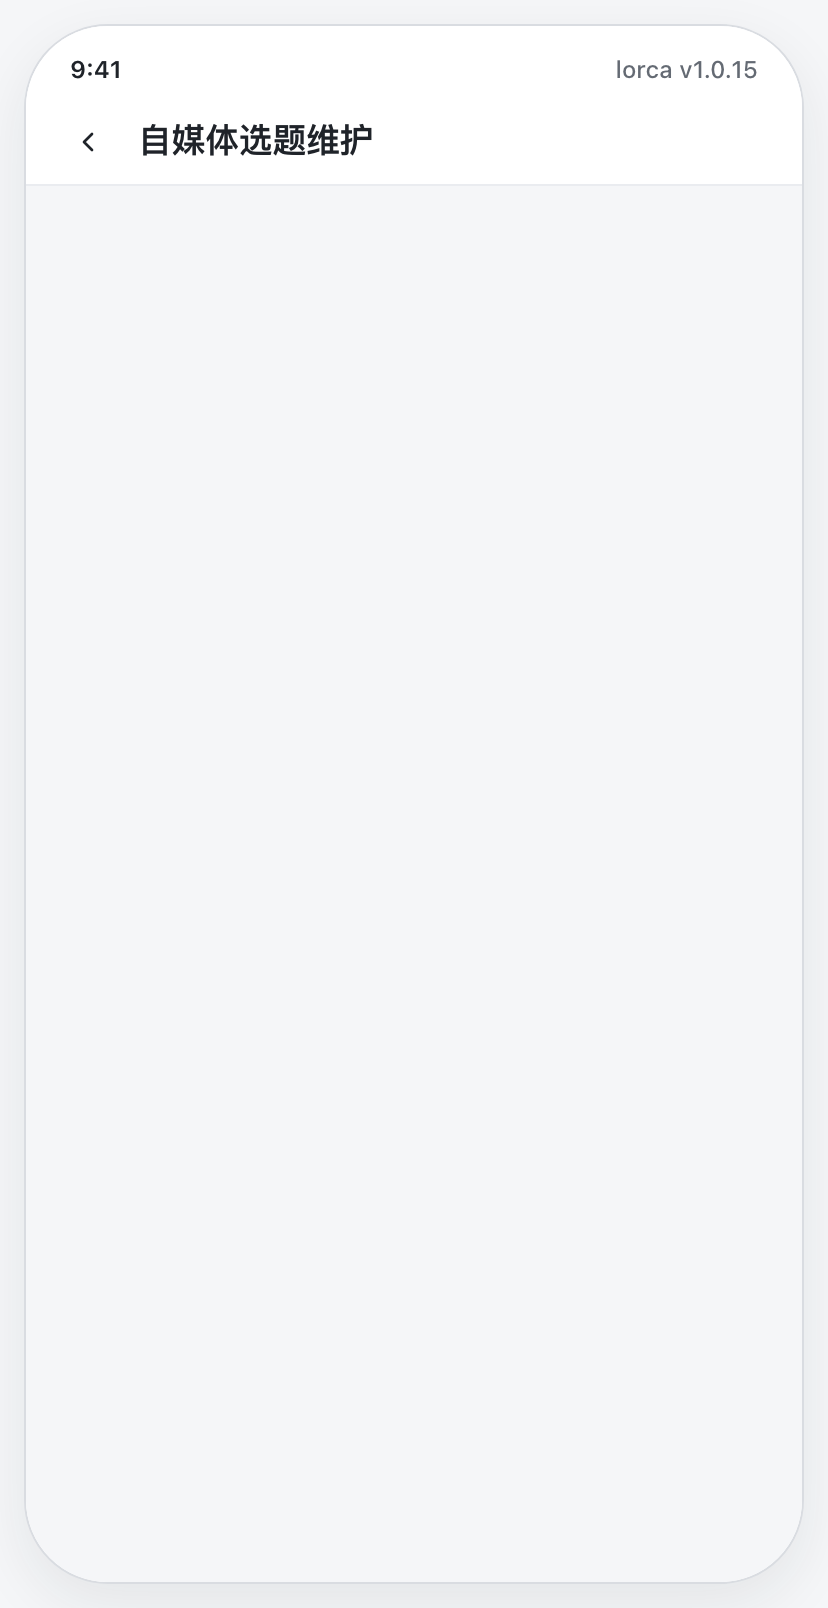
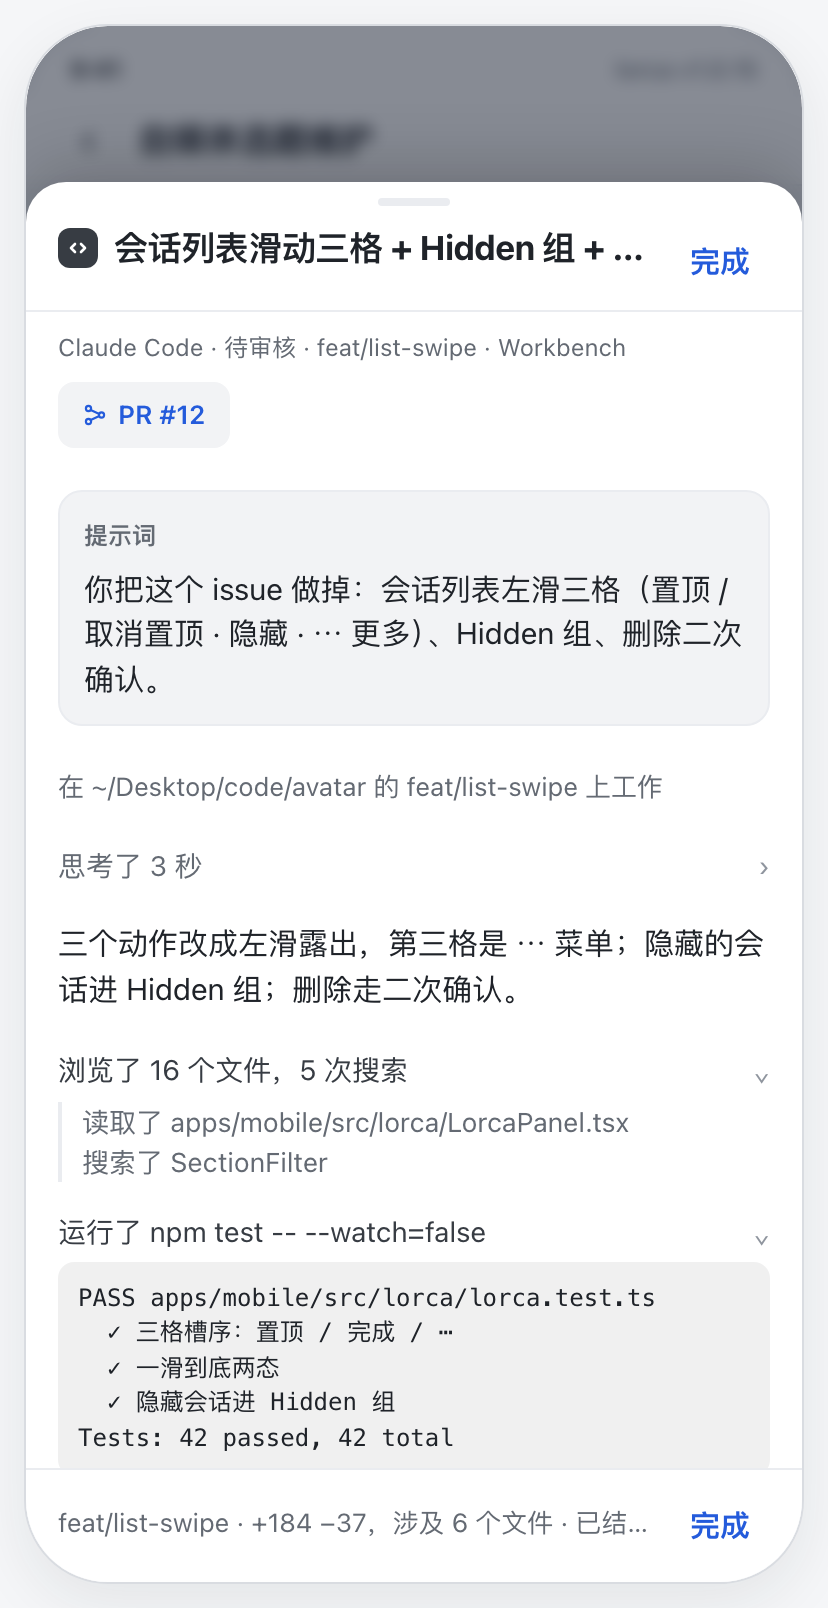
lorca-agent-rows: v3 —— 补失败态（⑦ 启动失败屏 + 失败原因行 + never started 翻 404 口径），探针 58/58

diff --git a/lorca-agent-rows/index.html b/lorca-agent-rows/index.html
@@ -275,6 +275,16 @@
     font-size: 12px; color: var(--muted);
   }
   .sheet-actions { flex: 0 0 auto; display: flex; gap: 8px; padding: 8px 16px 10px; }
+  /* 失败原因：与状态行分开一行。理由见结论区「失败态」一节 —— 原因可能是上游的长英文句子，
+     塞进状态行会被 360px 截断，而且会把六档状态词挤掉。 */
+  .sheet-reason {
+    flex: 0 0 auto;
+    padding: 6px 16px 0;
+    color: var(--danger); font-size: 12px; line-height: 1.45;
+    overflow-wrap: anywhere;
+  }
+  .sheet-reason .lead { font-weight: 600; }
+  .sheet-nothing { padding: 4px 0; font-size: 13px; color: var(--muted); }
   .sheet-action {
     display: inline-flex; align-items: center; gap: 5px;
     padding: 6px 12px; border: 0; border-radius: 8px;
@@ -388,7 +398,8 @@
     <button type="button" role="tab" data-screen="working" aria-selected="false">③ 详情 · 工作中</button>
     <button type="button" role="tab" data-screen="done" aria-selected="false">④ 详情 · 已结束</button>
     <button type="button" role="tab" data-screen="failed" aria-selected="false">⑤ 详情 · 失败</button>
-    <button type="button" role="tab" data-screen="narrow" aria-selected="false">⑥ 窄屏 360</button>
+    <button type="button" role="tab" data-screen="failed-start" aria-selected="false">⑥ 详情 · 启动失败（没跑起来）</button>
+    <button type="button" role="tab" data-screen="narrow" aria-selected="false">⑦ 窄屏 360</button>
   </div>
 
   <div class="stage">
@@ -773,6 +784,7 @@ Tests: 42 passed, 42 total</div>
                   <button class="sheet-close" type="button">关闭</button>
                 </div>
                 <div class="sheet-where" style="color:var(--danger)" data-probe="where">Claude Code · 运行失败 · main · Workbench</div>
+                <div class="sheet-reason" data-probe="reason"><span class="lead">失败原因：</span>Claude Code exited with code 1</div>
                 <div class="sheet-actions" style="display:none"></div>
                 <div class="sheet-body" data-probe="sheet-body">
                   <div class="step">
@@ -804,10 +816,51 @@ npm ERR!   npm run</div>
           </div>
         </section>
 
-        <!-- ══ ⑥ 窄屏 360 ══════════════════════════════════════════ -->
-        <section class="screen" data-screen="narrow">
-          <div class="statusbar"><span>9:41</span><span>360pt</span></div>
+        <!-- ══ ⑥ 详情 · 启动失败（agent 从没跑起来）═════════════════
+             这一屏是补的那条：启动失败时 agent 从没进 by_row，所以没有任何步骤，
+             主体是空的 —— 唯一的线索就是卡上的 outcome。没有这一行，用户看到的就是一片空白。 -->
+        <section class="screen" data-screen="failed-start">
+          <div class="statusbar"><span>9:41</span><span>lorca v1.0.15</span></div>
           <div class="hdr">
+            <button class="icon-btn is-plain" type="button" aria-label="返回">
+              <svg width="16" height="16" viewBox="0 0 24 24" fill="none" stroke="currentColor" stroke-width="2" stroke-linecap="round" stroke-linejoin="round"><path d="M15 18l-6-6 6-6"/></svg>
+            </button>
+            <span class="hdr-title">自媒体选题维护</span>
+            <span class="hdr-spacer"></span>
+          </div>
+          <div class="thread" style="padding:0">
+            <div class="backdrop">
+              <div class="sheet" data-probe="sheet" data-state="failed-start">
+                <div class="sheet-handle"></div>
+                <div class="sheet-head">
+                  <div class="sheet-head-text">
+                    <div class="sheet-title">
+                      <span class="mark" aria-hidden="true">
+                        <svg width="12" height="12" viewBox="0 0 24 24" fill="none" stroke="currentColor" stroke-width="2.6" stroke-linecap="round" stroke-linejoin="round"><path d="M9 8l-4 4 4 4"/><path d="M15 8l4 4-4 4"/></svg>
+                      </span>
+                      <span class="t">会话列表滑动三格 + Hidden 组 + 删除（issue #1 P1）</span>
+                    </div>
+                  </div>
+                  <button class="sheet-close" type="button">关闭</button>
+                </div>
+                <div class="sheet-where" style="color:var(--danger)" data-probe="where">Claude Code · 运行失败</div>
+                <div class="sheet-reason" data-probe="reason"><span class="lead">失败原因：</span>Claude Code is not installed on this Runner. Leave agent out to use one that is, or ask the user to install it.</div>
+                <div class="sheet-actions" style="display:none"></div>
+                <div class="sheet-body" data-probe="sheet-body">
+                  <div class="step"><p class="sheet-nothing" data-probe="nothing">这次运行没有留下步骤。</p></div>
+                </div>
+                <div class="sheet-foot">
+                  <span class="grow" data-probe="foot">已结束，不再刷新</span>
+                  <button class="sheet-close" type="button">关闭</button>
+                </div>
+              </div>
+            </div>
+          </div>
+        </section>
+
+        <!-- ══ ⑦ 窄屏 360 ══════════════════════════════════════════ -->
+        <section class="screen" data-screen="narrow">
+          <div class="statusbar"><span>9:41</span><span>360pt</span></div>          <div class="hdr">
             <button class="icon-btn is-plain" type="button" aria-label="返回">
               <svg width="16" height="16" viewBox="0 0 24 24" fill="none" stroke="currentColor" stroke-width="2" stroke-linecap="round" stroke-linejoin="round"><path d="M15 18l-6-6 6-6"/></svg>
             </button>
@@ -915,6 +968,7 @@ Tests: 42 passed, 42 total</div>
       <tr><th>位置</th><th>内容</th></tr>
       <tr><td>把手 + 标题栏</td><td>智能体标记 + 标题（最多 3 行）+ 关闭（iOS「完成」/ Android「关闭」）</td></tr>
       <tr><td>状态行</td><td>{智能体名} · {状态词} · {分支} · {设备}（缺的项不占位，失败时整行走失败色）</td></tr>
+      <tr><td>失败原因行</td><td>仅 <code>state === "failed"</code> 且 <code>outcome</code> 非空时出现：<b>失败原因：{outcome}</b>，走失败色、可换行；其余情况不占位</td></tr>
       <tr><td>动作行</td><td>运行中一个「停止」；有 PR 时一个 PR 入口（<code>#12</code>）；都没有时整行不占位</td></tr>
       <tr><td>主体（可滚）</td><td>按时间顺序列步骤：提示词卡（超 6 行折叠，「显示更多」）/ 状态行 / 思考了 N 秒（可展开正文）/ 它说的话 / 工具步骤（读与搜索折成「浏览了 N 个文件 M 次搜索」，命令可展开输出，编辑带 +N −N）/ 计划清单 / 错误行</td></tr>
       <tr><td>底部</td><td>分支 + 改动统计（<code>+184 −37，涉及 6 个文件</code>）+ 关闭</td></tr>
@@ -963,14 +1017,28 @@ Tests: 42 passed, 42 total</div>
     <p><b>我的取舍是保留状态词</b>，理由：标题只用于「认得出是哪个任务」（前几个字通常够），而「干到哪了」是这一行唯一的可扫视信号，也是点开浮层的动机。完整标题在浮层标题栏里完整可读（最多 3 行）。</p>
     <p>如果你更在意标题完整度，备选是把状态词移到预览行右端（标题能多 4 个字）—— 但状态会离标题变远，扫视时容易读成预览的一部分。你定。</p>
 
-    <h3>7. 与 issue #4 验收标准的对应（逐条可核）</h3>
+    <h3>7. 失败态（本次补充，2026-10-18）</h3>
+    <p>复核时发现的缺口：<b>启动失败</b>的智能体从没进上游的 agent 表（<code>by_row</code> 查不到），所以点开浮层拉 <code>coding.transcript</code> 只会失败 —— 主体一片空白 + 一句英文报错。而上游给的真原因就在卡上的 <code>outcome</code>（桥接层已经收进协议了，界面一处没画）。</p>
+    <table>
+      <tr><th>位置</th><th>口径</th></tr>
+      <tr><td>桥接层</td><td>上游的 <code>That coding agent never started</code> 要翻成 <b>404</b>（不是 502），且说清是「这个智能体没有跑起来」，不能说成「这一行不是启动行」——两种 404 是不同的错</td></tr>
+      <tr><td>浮层主体</td><td>拉不到运行记录时**不弹错误框**，走已有空态「这次运行没有留下步骤。」（原因由下面那行给）</td></tr>
+      <tr><td>失败原因行</td><td>状态行下方一行「<b>失败原因：</b>{outcome}」，<b>仅 <code>state === "failed"</code> 且 <code>outcome</code> 非空</b>；数据取会话流那一行的卡（<code>fallback</code>），不等 transcript</td></tr>
+    </table>
+    <p><b>两处与上游不同，都是有意：</b></p>
+    <ul>
+      <li><b>不替换状态行</b>（上游 macOS <code>AgentCellView.swift:36</code> 是整条替成「失败：{outcome}」）。理由：360pt 上 outcome 可能是一整句英文，替掉状态行就把「哪个智能体、哪个分支」挤掉了；上游那样写是因为它的 detail 只有一行位置，浮层里有两行。</li>
+      <li><b><code>stopped</code> 的 outcome 本期不画</b>（上游也只画 <code>failed</code> 那档）。stopped 的 outcome 常常就是「Stopped」这类词，摆在「失败原因：」后面是假话。状态词「已停止」已经说清了。要画得另起一档标签，P2 再说。</li>
+    </ul>
+
+    <h3>8. 与 issue #4 验收标准的对应（逐条可核）</h3>
     <table>
       <tr><th>AC</th><th>本稿里对应哪一块</th></tr>
       <tr><td>1 <code>agent_message</code> 不降级</td><td>不在 UI 稿范围（桥接层），但 ② 屏「来自 …」行就是它的渲染结果</td></tr>
       <tr><td>2 工具行带 <code>agent</code> / <code>target_agent_id</code></td><td>不在 UI 稿范围；② 屏同时演示了两种（启动行 / 发消息行）</td></tr>
       <tr><td>3 居中标记行、不出现英文原名</td><td>② 屏五条标记行；① 屏是对照基线；探针核「② 屏文本无 <code>coding_agent</code>、① 屏有」</td></tr>
-      <tr><td>4 点开详情、顶部有标题 / 状态行 / 停止 / 底部关闭</td><td>③ 屏（有停止无 PR）；④ 屏（有 PR 无停止）</td></tr>
-      <tr><td>5 七种步骤 + 工具可展开</td><td>③④⑤ 屏：提示词 / 状态行 / 思考 / 它说的话 / 工具步骤 / 计划 / 错误行；④ 屏演示了展开的命令输出</td></tr>
+      <tr><td>4 点开详情、顶部有标题 / 状态行 / 停止 / 底部关闭</td><td>③ 屏（有停止无 PR）；④ 屏（有 PR 无停止）；⑤ 屏（失败 + 失败原因行）；⑥ 屏（启动失败：无步骤、无错误框、有失败原因行）</td></tr>
+      <tr><td>5 七种步骤 + 工具可展开</td><td>③④⑤ 屏：提示词 / 状态行 / 思考 / 它说的话 / 工具步骤 / 计划 / 错误行；④ 屏演示了展开的命令输出；⑥ 屏演示「一个步骤都没有」的空态</td></tr>
       <tr><td>6 2 秒 / 5 秒跟随、结束就停</td><td>③ 屏底部「跟随中 · 每 5 秒」；④⑤ 屏「已结束，不再刷新」——手机端永远不是 Runner，所以只有 5 秒这一档；节奏本身由研发实现</td></tr>
       <tr><td>7 点外面 / 返回键关</td><td>四屏浮层都有 <code>backdrop</code> 层（点外面关）+ 顶部与底部两个关闭按钮；返回键走已有 <code>useBackLayer</code>。**浮层上方那条缝不接收关闭**（防误关，研发建议，已采纳）</td></tr>
       <tr><td>8 窄屏 360 不溢出、长命令截断可展开</td><td>⑥ 屏（360pt 壳）；探针核无横向溢出、长命令 ellipsis 且可展开</td></tr>
@@ -983,6 +1051,10 @@ Tests: 42 passed, 42 total</div>
       研发核出的三处已改到稿子里：<b>报告行不画状态词</b>（只红色区分 failed）、
       <b>发消息行反查不到启动行时没有状态词</b>、<b>浮层降到 90% 且上方那条缝不接收关闭</b>；
       跟随文案改成「跟随中 · 每 5 秒 / 已结束，不再刷新 / 已暂停 · 回到最新」（手机端永远不是 Runner，2 秒那档写错了）。
+      <br><br>
+      <b>本次补充（Adam 2026-10-18 点头）</b>：⑥ 屏「启动失败」—— 桥接层把
+      <code>never started</code> 翻成 404、浮层不弹错误框、状态行下面一行「失败原因：{outcome}」。
+      验收时按这三条逐项核（另见下方第 7 节）。
     </div>
       待你确认的两条口径：<b>①标记行带状态词</b>、<b>②标记行写智能体名</b>（都偏离上游，理由是不引 logo 资产）。
       你点头后我把这两条写进 issue #4 的验收标准，研发照此实现。
